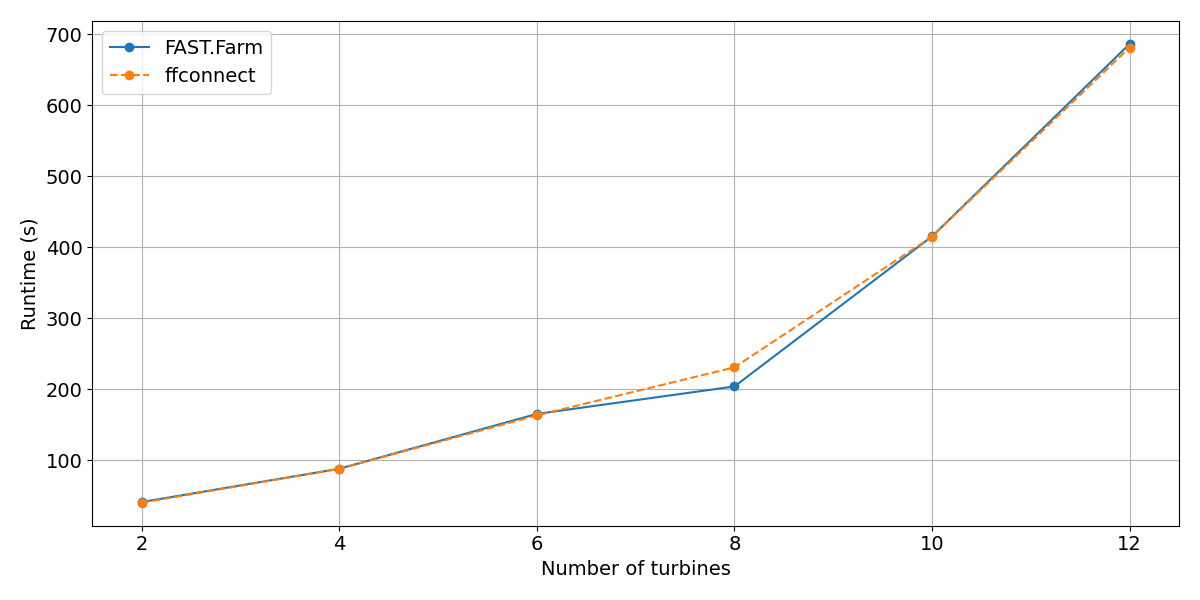
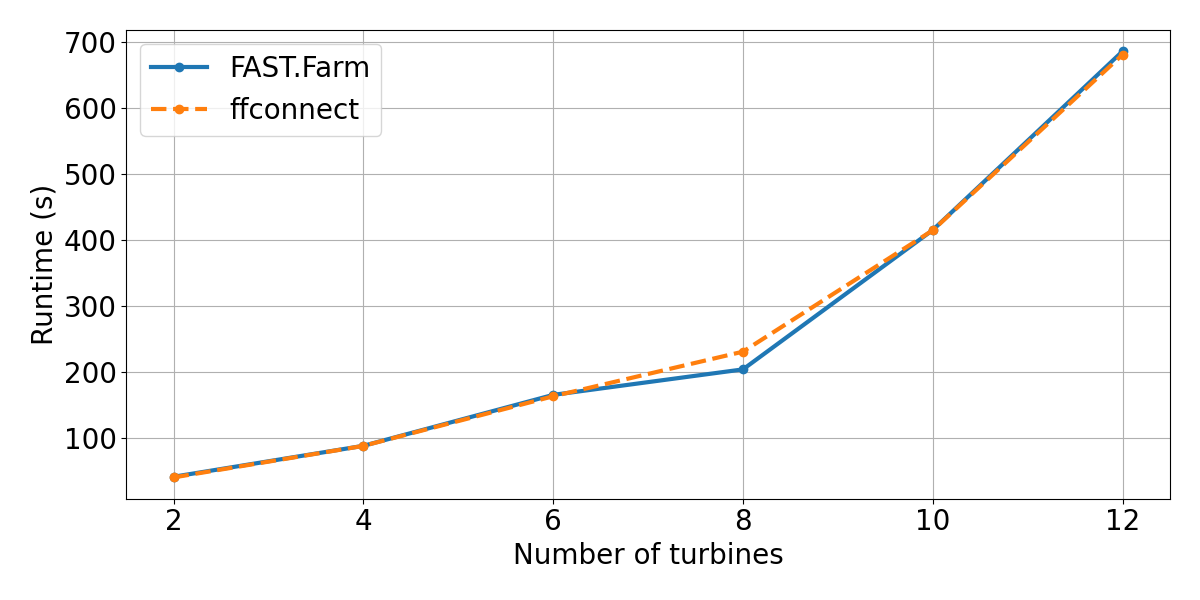
Clean redundant files

diff --git a/run_omp_threads_experiment.py b/run_omp_threads_experiment.py
@@ -1,0 +1,79 @@
+"""
+Timing experiment: measure ffconnect wall-clock runtime on
+demo/time/Test/ffconnect.fstf across OMP_NUM_THREADS = 2..24 (step 2),
+to find the core count that gives the fastest run.
+
+Each case runs in its own `mpiexec -n 1 python` subprocess so
+OMP_NUM_THREADS can be set per-run via the subprocess environment
+(the in-process MPI spawn used by ffconnect doesn't reliably pick up
+env changes made after MPI_Init).
+
+Results are saved to results/omp_threads_timing.csv.
+
+Run with: python run_omp_threads_experiment.py
+"""
+
+import csv
+import os
+import subprocess
+import time
+from pathlib import Path
+
+ROOT = Path(__file__).resolve().parent
+WORKER = ROOT / "_omp_worker_ffconnect.py"
+OUT_CSV = ROOT / "results" / "omp_threads_timing.csv"
+
+THREAD_COUNTS = list(range(2, 25, 2))
+
+
+def run_case(n_threads: int):
+    env = os.environ.copy()
+    env["OMP_NUM_THREADS"] = str(n_threads)
+
+    result_file = OUT_CSV.parent / f"_omp_elapsed_{n_threads}.txt"
+    if result_file.exists():
+        result_file.unlink()
+    env["OMP_RESULT_FILE"] = str(result_file)
+
+    # stdout/stderr inherit the console so FAST.Farm progress is visible live.
+    proc = subprocess.run(
+        ["mpiexec", "-n", "1", "python", str(WORKER)],
+        cwd=str(ROOT), env=env,
+    )
+
+    if proc.returncode == 0 and result_file.exists():
+        elapsed = float(result_file.read_text().strip())
+        result_file.unlink()
+        return elapsed, "OK"
+    return float("nan"), f"ERROR (rc={proc.returncode})"
+
+
+# ============================================================
+# Experiment
+# ============================================================
+
+OUT_CSV.parent.mkdir(parents=True, exist_ok=True)
+
+rows = []
+for n in THREAD_COUNTS:
+    print(f"\n=== OMP_NUM_THREADS = {n}  ({THREAD_COUNTS.index(n) + 1}/{len(THREAD_COUNTS)}) ===", flush=True)
+    print("  running ffconnect.fstf (this takes a few minutes) ...", flush=True)
+    elapsed, status = run_case(n)
+    print(f"  elapsed: {elapsed:.2f}s [{status}]", flush=True)
+    rows.append({"omp_num_threads": n, "elapsed_s": round(elapsed, 3), "status": status})
+
+with open(OUT_CSV, "w", newline="") as f:
+    writer = csv.DictWriter(f, fieldnames=["omp_num_threads", "elapsed_s", "status"])
+    writer.writeheader()
+    writer.writerows(rows)
+
+print(f"\nResults saved to {OUT_CSV}")
+print(f"\n{'OMP_NUM_THREADS':>15}  {'elapsed (s)':>12}  status")
+print("-" * 60)
+for r in rows:
+    print(f"{r['omp_num_threads']:>15}  {r['elapsed_s']:>12.2f}  {r['status']}")
+
+ok_rows = [r for r in rows if r["status"] == "OK"]
+if ok_rows:
+    best = min(ok_rows, key=lambda r: r["elapsed_s"])
+    print(f"\nFastest: OMP_NUM_THREADS={best['omp_num_threads']} ({best['elapsed_s']:.2f}s)")

diff --git a/results/plot_timing_comparison.py b/results/plot_timing_comparison.py
@@ -3,15 +3,15 @@ import csv
 import os
 
 import matplotlib.pyplot as plt
-
+size = 20
 plt.rcParams.update({
-    "font.size": 14,
-    "axes.titlesize": 14,
-    "axes.labelsize": 14,
-    "xtick.labelsize": 14,
-    "ytick.labelsize": 14,
-    "legend.fontsize": 14,
-    "figure.titlesize": 14,
+    "font.size": size,
+    "axes.titlesize": size,
+    "axes.labelsize": size,
+    "xtick.labelsize": size,
+    "ytick.labelsize": size,
+    "legend.fontsize": size,
+    "figure.titlesize": size,
 })
 
 RESULTS_DIR = os.path.dirname(os.path.abspath(__file__))
@@ -32,8 +32,8 @@ ffconnect_sim_time = [float(r["ffconnect_time_s"]) for r in sim_rows]
 
 fig1, ax1 = plt.subplots(figsize=(12, 6))
 # fig1.suptitle("Runtime vs. Simulation Length", fontsize=13)
-ax1.plot(tmax, ff_sim_time, marker="o", label="FAST.Farm")
-ax1.plot(tmax, ffconnect_sim_time, marker="o", linestyle="--", label="ffconnect")
+ax1.plot(tmax, ff_sim_time, marker="o", linewidth=3, label="FAST.Farm")
+ax1.plot(tmax, ffconnect_sim_time, marker="o", linestyle="--", linewidth=3, label="ffconnect")
 ax1.set_xlabel("Simulation length, Tmax (s)")
 ax1.set_ylabel("Runtime (s)")
 ax1.legend()
@@ -51,8 +51,8 @@ ffconnect_farm_time = [float(r["ffconnect_time_s"]) for r in farm_rows]
 
 fig2, ax2 = plt.subplots(figsize=(12, 6))
 # fig2.suptitle("Runtime vs. Farm Size", fontsize=13)
-ax2.plot(turbines, ff_farm_time, marker="o", label="FAST.Farm")
-ax2.plot(turbines, ffconnect_farm_time, marker="o", linestyle="--", label="ffconnect")
+ax2.plot(turbines, ff_farm_time, marker="o", linewidth=3, label="FAST.Farm")
+ax2.plot(turbines, ffconnect_farm_time, marker="o", linestyle="--", linewidth=3, label="ffconnect")
 ax2.set_xlabel("Number of turbines")
 ax2.set_ylabel("Runtime (s)")
 ax2.legend()

diff --git a/_omp_worker_ffconnect.py b/_omp_worker_ffconnect.py
@@ -1,0 +1,27 @@
+# Run with: mpiexec -n 1 python _omp_worker_ffconnect.py
+# Writes the measured wall-clock seconds to the file given by the
+# OMP_RESULT_FILE env var (set by run_omp_threads_experiment.py); if that
+# var is unset it just prints the time. Worker stdout/stderr stream live to
+# the console so the orchestrator can show real-time FAST.Farm progress.
+import os
+import time
+from pathlib import Path
+
+from ffconnect.interface import FastFarmInterface
+
+EXE = r"D:\2_PhD_UBC\Code\FASTv355\FAST.Farm_x64_OMP_v355.exe"
+FSTF = Path(__file__).resolve().parent / "demo" / "time" / "CoreNum" / "ffconnect.fstf"
+
+t0 = time.perf_counter()
+interface = FastFarmInterface.from_file(str(FSTF), fast_farm_executable=EXE, per_turbine_flags=True)
+interface.init()
+done = False
+while not done:
+    done = interface.step()
+elapsed = time.perf_counter() - t0
+
+print(f"ELAPSED_S={elapsed:.6f}", flush=True)
+
+result_file = os.environ.get("OMP_RESULT_FILE")
+if result_file:
+    Path(result_file).write_text(f"{elapsed:.6f}")
